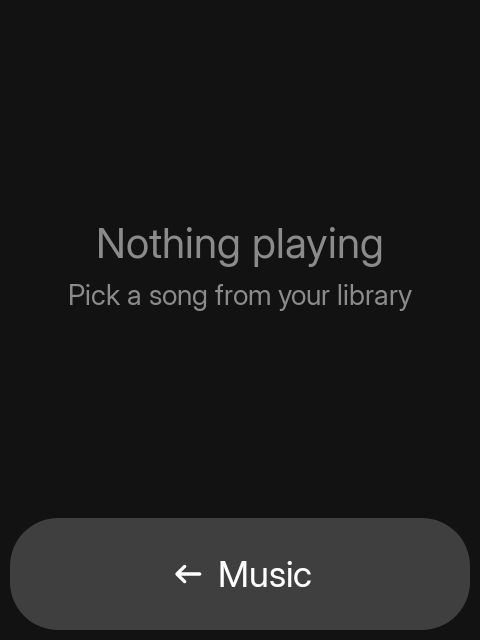
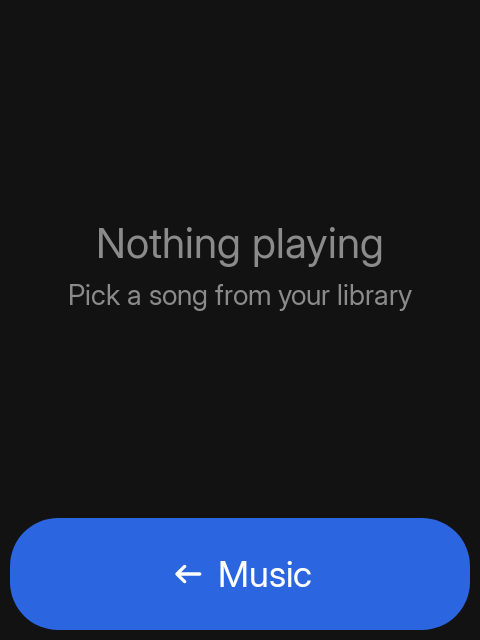
Keep the back button blue on Now Playing
Muting it was my call, made when play was a body blue and the two competed.
Play is the calculator's green now, so the bar's primary back is the only blue
on the screen and reads as the way out rather than a rival to the transport.

Changed region(s): [[0.0, 0.8125, 1.0, 1.0]]

diff --git a/app/src/main/java/hrln/interactive/sidekit/apps/music/MusicScreens.kt b/app/src/main/java/hrln/interactive/sidekit/apps/music/MusicScreens.kt
@@ -211,12 +211,10 @@ fun NowPlayingScreen(
     actions: NowPlayingActions
 ) {
     val track = playback.track
-    // Play is the one accent on this screen, so the bar gives its usual primary blue up: back is
-    // what ActionTone.Muted is for ("back-out, alternatives"), and the transport above stays the
-    // loudest row. Only back and Save are permanent; Album and Artist live in Options, because the
-    // art and the artist line already go there and most tracks are played without leaving this screen.
+    // Only back and Save are permanent in the bar; Album and Artist live in Options, because the art
+    // and the artist line already go there and most tracks are played without leaving this screen.
     val bar = buildList {
-        add(SideAction("back", "Music", SidekitIcon.ArrowLeftAlt, tone = ActionTone.Muted, motion = ActionMotion.Back, onClick = actions.onBack))
+        add(SideAction.back("back", "Music", actions.onBack))
         if (track != null) {
             add(
                 SideAction.square(
